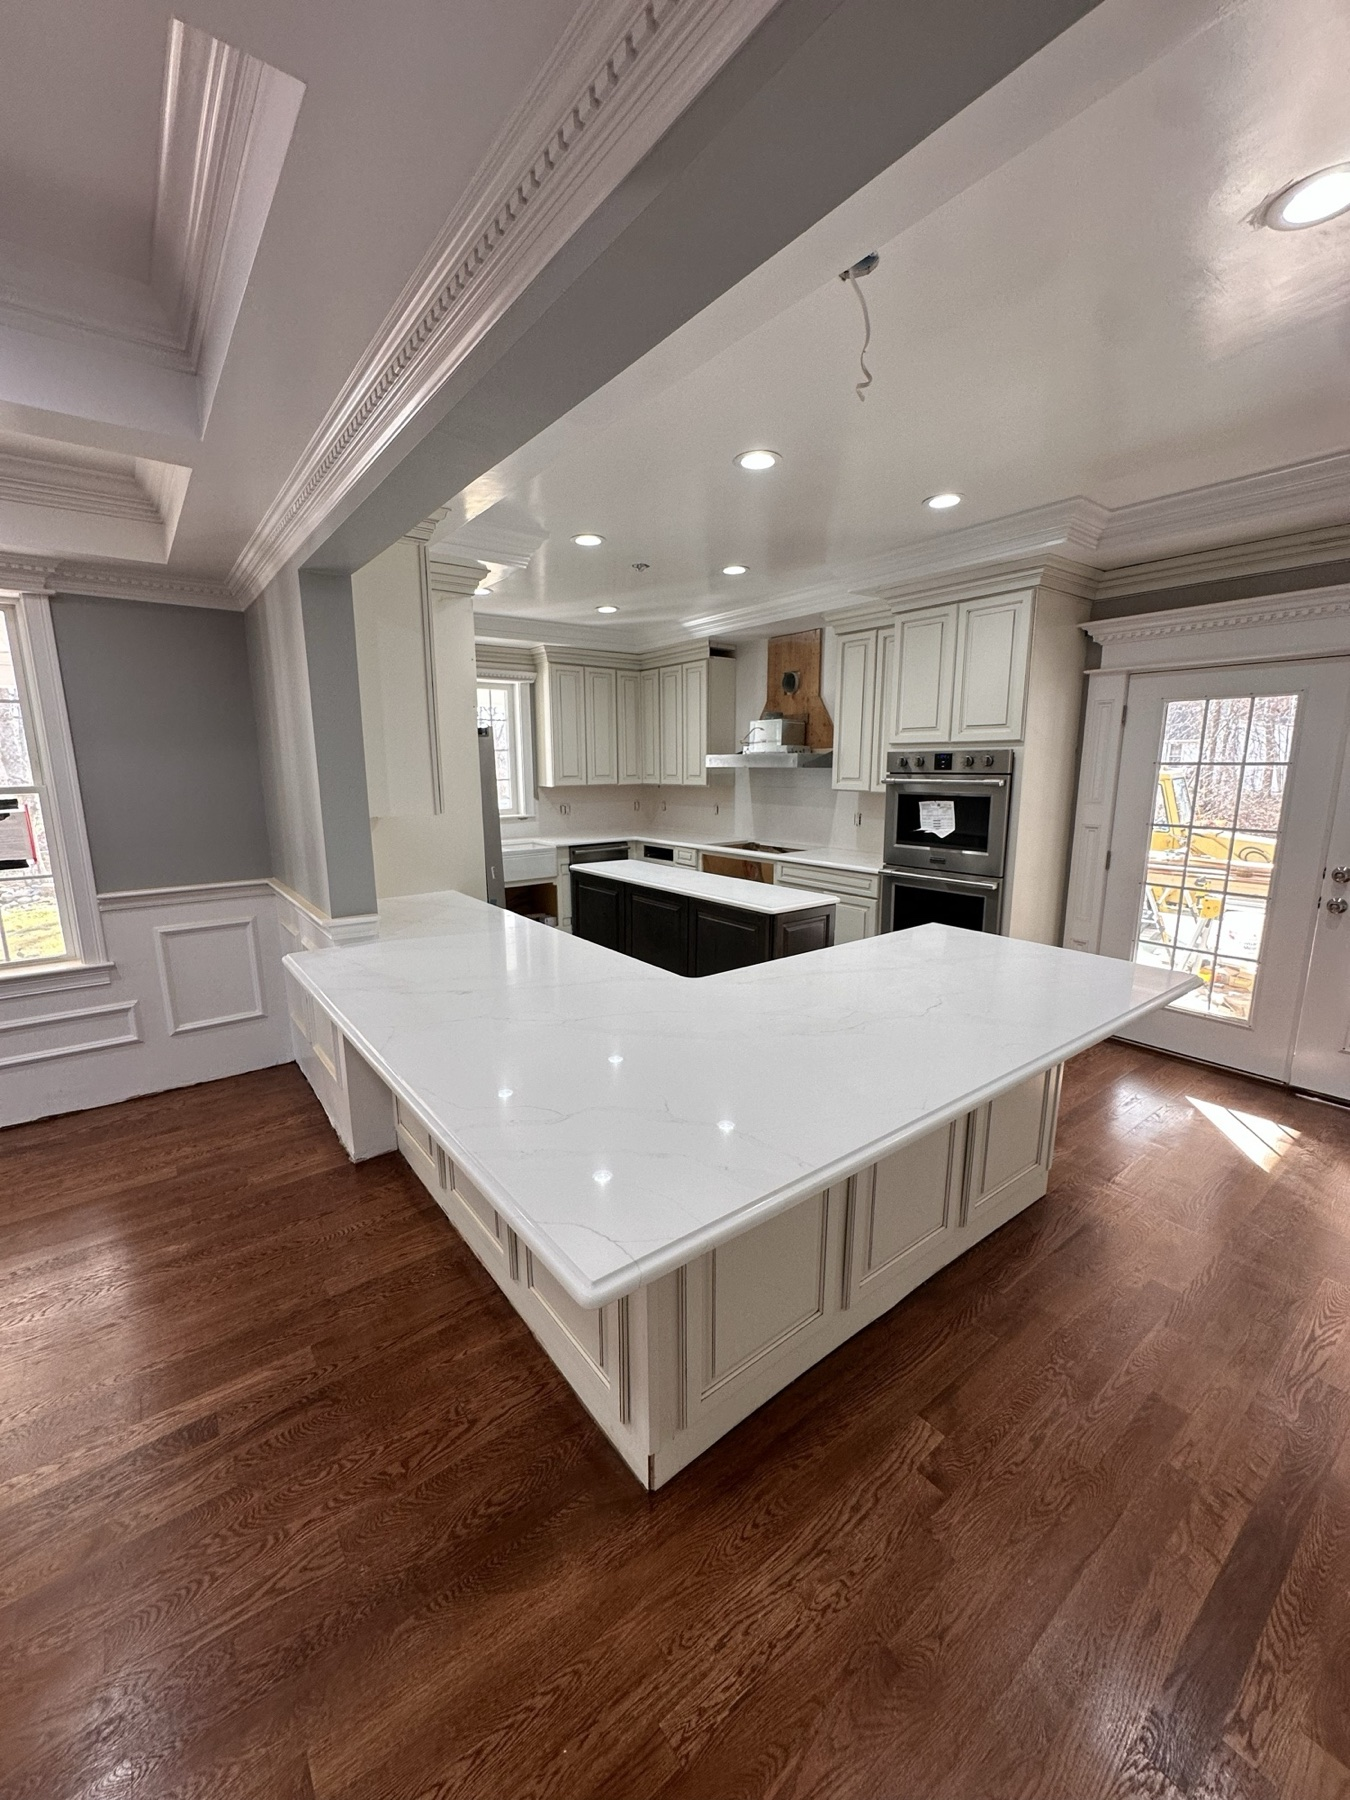
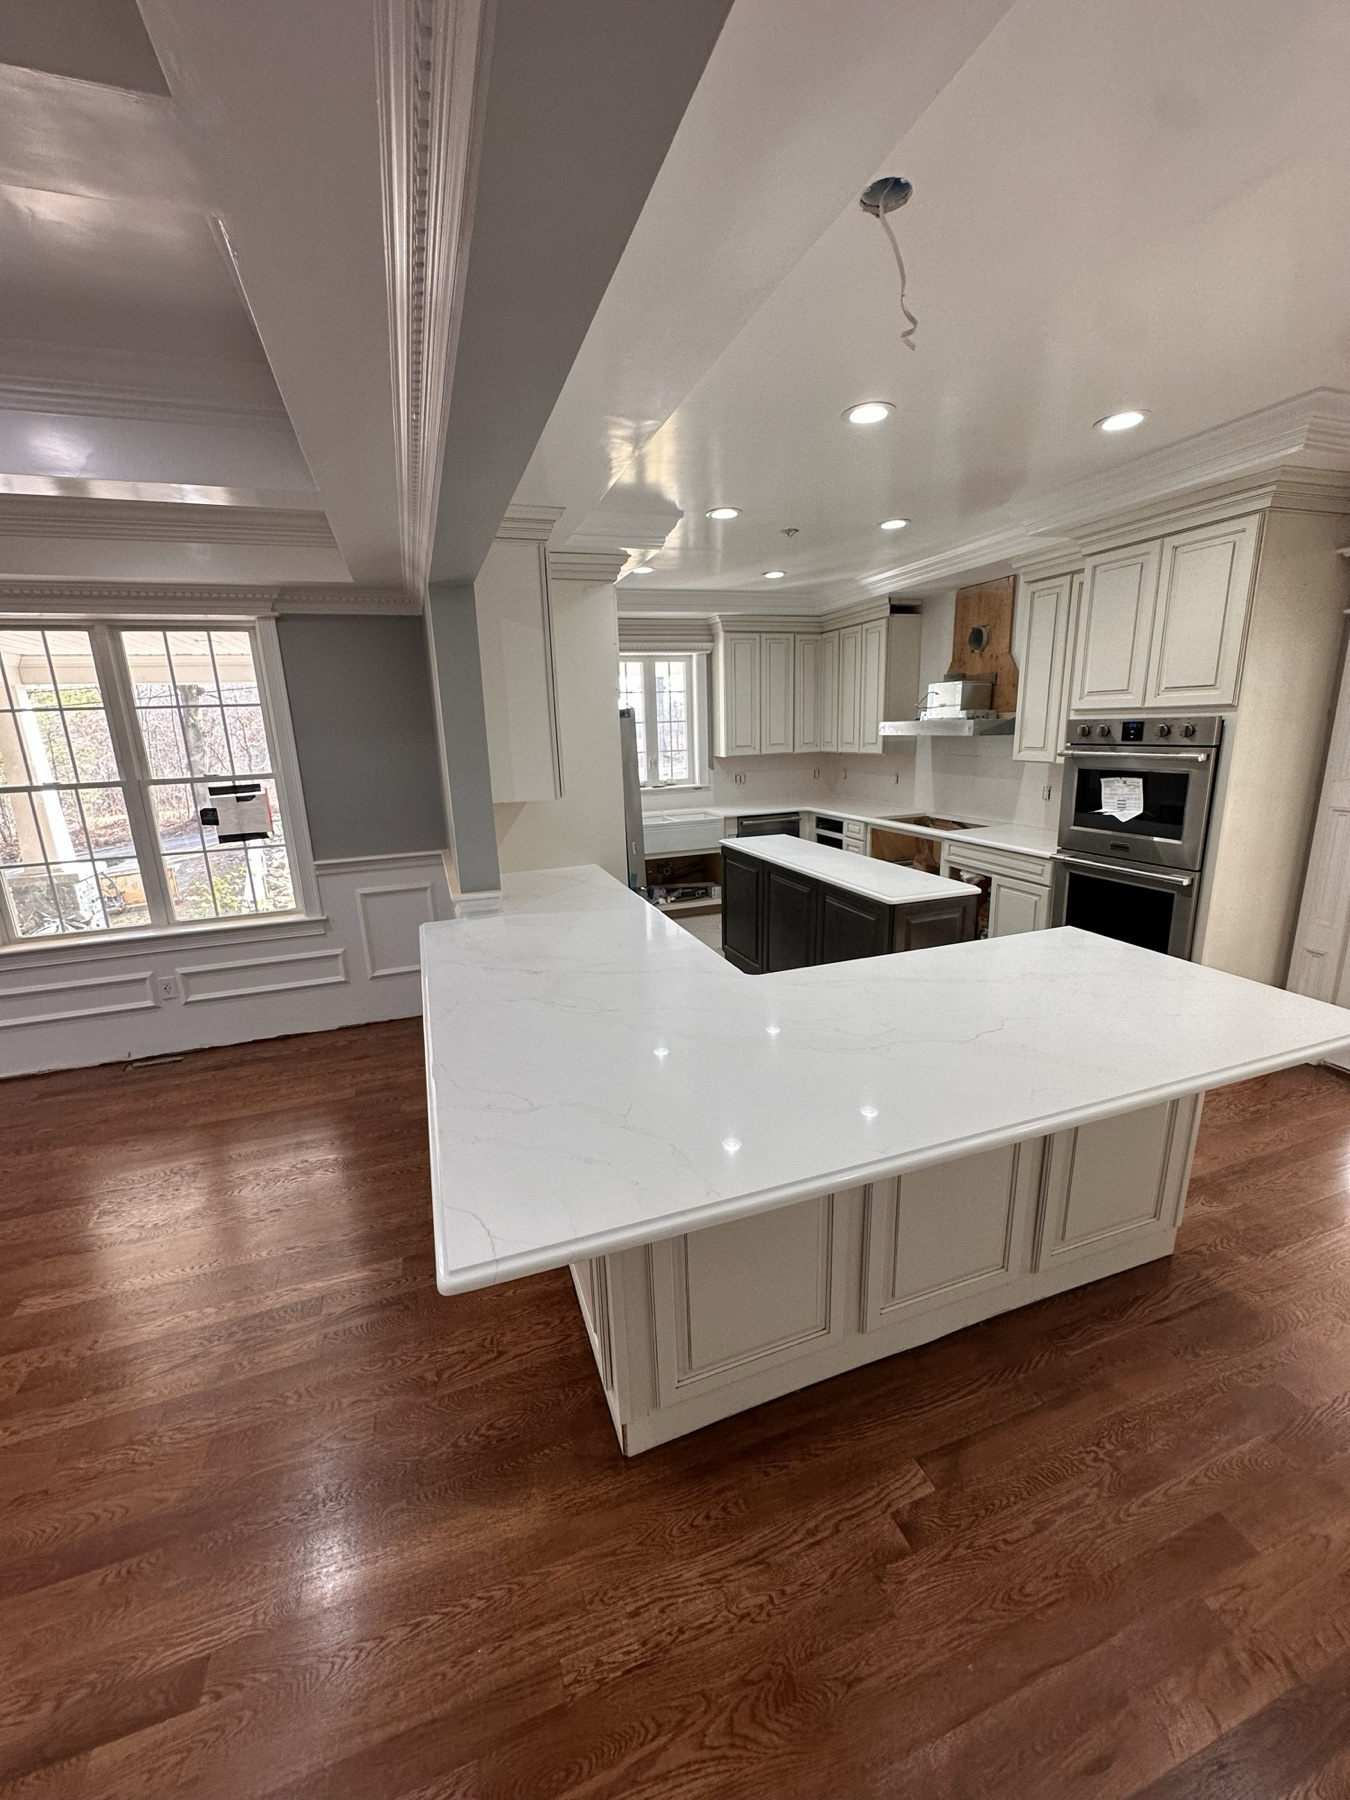
Apply remaining client-meeting changes: 45-degree stone differentiator, Flooring gallery, light hero by default
- Name the 45-degree mitered stone edge as the differentiator the client
  called 'an exclusivity few do well': hero accent card, featured-project
  list, service card tag and copy, gallery caption, JSON-LD knowsAbout.
- Build the Flooring gallery category the client asked for, using photos
  already on disk (IMG_3829, NHS_floor_frame, NHS_5598_floor) plus
  multi-category tiles ('kitchen flooring'); filter now splits on space.
- Light hero becomes the default (class on <html>, so it holds without JS);
  the dark variant stays at ?hero=dark and no longer downloads its photo.
- Cut the marble tub from 6 placements to 3: it leaves the hero, the
  Why-North-Home section and the duplicate gallery tile.
- Contact form is Formspree-ready via a single FORM_ENDPOINT constant,
  falling back to the honest mailto flow while it is empty.

diff --git a/site/index.html b/site/index.html
@@ -1,5 +1,5 @@
 <!DOCTYPE html>
-<html lang="en">
+<html lang="en" class="hero-light">
 <head>
   <meta charset="UTF-8">
   <meta name="viewport" content="width=device-width, initial-scale=1.0">
@@ -15,13 +15,12 @@
   <meta property="og:locale" content="en_US">
   <meta name="twitter:card" content="summary_large_image">
   <!-- TODO before launch: make og:image absolute, add og:url + <link rel="canonical"> once the domain exists -->
-  <link rel="preload" as="image" href="assets/img/web/hero-desktop.jpg" media="(min-width: 700px)" fetchpriority="high">
-  <link rel="preload" as="image" href="assets/img/web/hero-mobile.jpg" media="(max-width: 699px)" fetchpriority="high">
+  <link rel="preload" as="image" href="assets/img/web/hero-kitchen.jpg" fetchpriority="high">
   <link rel="preconnect" href="https://fonts.googleapis.com">
   <link rel="preconnect" href="https://fonts.gstatic.com" crossorigin>
   <link href="https://fonts.googleapis.com/css2?family=Archivo:wght@400;500;600;700&family=Fraunces:ital,opsz,wght@0,9..144,400;0,9..144,500;1,9..144,400;1,9..144,500&display=swap" rel="stylesheet">
-  <link rel="stylesheet" href="css/styles.css?v=17">
-  <script>(function(){var d=document.documentElement;d.classList.add("js");try{var q=new URLSearchParams(location.search);if(q.get("hero")==="light")d.classList.add("hero-light");if(q.get("noanim"))d.classList.add("noanim");var s=q.get("scroll");if(s)addEventListener("load",function(){scrollTo(0,parseInt(s,10)||0)})}catch(e){}})()</script>
+  <link rel="stylesheet" href="css/styles.css?v=22">
+  <script>(function(){var d=document.documentElement;d.classList.add("js");var q;try{q=new URLSearchParams(location.search)}catch(e){}if(q&&q.get("hero")==="dark")d.classList.remove("hero-light");if(q){if(q.get("noanim"))d.classList.add("noanim");var s=q.get("scroll");if(s)addEventListener("load",function(){scrollTo(0,parseInt(s,10)||0)})}})()</script>
   <script type="application/ld+json">
   {
     "@context": "https://schema.org",
@@ -38,7 +37,7 @@
       "addressCountry": "US"
     },
     "areaServed": ["Destin FL", "Santa Rosa Beach FL", "Miramar Beach FL", "Panama City Beach FL", "Panama City FL", "Niceville FL", "Fort Walton Beach FL", "Freeport FL"],
-    "knowsAbout": ["Tile installation", "Custom showers", "Bathroom remodeling", "Countertops", "Backsplashes", "Kitchen remodeling", "LVP flooring", "Fireplace surrounds", "Outdoor kitchens", "Interior finishes", "General remodeling"],
+    "knowsAbout": ["Tile installation", "Custom showers", "Bathroom remodeling", "Countertops", "45-degree mitered stone edges", "Waterfall countertop edges", "Backsplashes", "Kitchen remodeling", "LVP flooring", "Hardwood flooring", "Fireplace surrounds", "Outdoor kitchens", "Interior finishes", "General remodeling"],
     "telephone": "+1-774-420-6728",
     "priceRange": "$$",
     "email": "contact@northhomesolutions.com",
@@ -99,7 +98,7 @@
       <div class="hero-media" aria-hidden="true">
         <picture>
           <source media="(max-width: 699px)" srcset="assets/img/web/hero-mobile.jpg" width="1080" height="1505">
-          <img src="assets/img/web/hero-desktop.jpg" alt="" width="1920" height="1080" fetchpriority="high" decoding="async">
+          <img src="assets/img/web/hero-desktop.jpg" alt="" width="1920" height="1080" loading="lazy" decoding="async">
         </picture>
       </div>
       <div class="wrap hero-inner">
@@ -130,8 +129,8 @@
         </ul>
         </div>
         <div class="hero-visual rv" style="--rv-delay:.25s" aria-hidden="true">
-          <div class="hv-main"><img src="assets/img/web/hero-mobile.jpg" alt="" width="1080" height="1505" loading="lazy" decoding="async"></div>
-          <div class="hv-accent"><img src="assets/img/web/svc-kitchen.jpg" alt="" width="1400" height="793" loading="lazy" decoding="async"></div>
+          <div class="hv-main"><img src="assets/img/web/hero-kitchen.jpg" alt="" width="900" height="1200" fetchpriority="high" decoding="async"></div>
+          <div class="hv-accent"><img src="assets/img/web/hero-detail.jpg" alt="" width="800" height="645" decoding="async"></div>
         </div>
       </div>
       <div class="scroll-hint" aria-hidden="true">Scroll</div>
@@ -160,7 +159,7 @@
               <span class="svc-num">01</span>
               <h3>Tile &amp; Stone Installation</h3>
               <p>Our specialty. Floors, walls, backsplashes and fireplaces — large-format porcelain and natural stone, set level, aligned and grouted clean.</p>
-              <div class="svc-tagrow"><span>Large-format</span><span>Backsplashes</span><span>Natural stone</span><span>Fireplaces</span></div>
+              <div class="svc-tagrow"><span>Large-format</span><span>45&deg; mitered edges</span><span>Natural stone</span><span>Fireplaces</span></div>
             </div>
           </article>
           <article class="svc svc-b rv" style="--rv-delay:.1s">
@@ -177,7 +176,7 @@
             <div class="svc-body">
               <span class="svc-num">03</span>
               <h3>Kitchen Countertops</h3>
-              <p>Quartz and quartzite countertops, full-height slab backsplashes and kitchen refreshes that bring the heart of the home up to coastal standards.</p>
+              <p>Quartz and quartzite countertops, full-height slab backsplashes and mitered waterfall edges that carry the veining straight over the corner.</p>
             </div>
           </article>
           <article class="svc svc-d rv" style="--rv-delay:.1s">
@@ -215,6 +214,7 @@
             <li class="rv"><span class="fl-num">i.</span><span><b>Precision layout</b> — patterns centered and planned before the first cut</span></li>
             <li class="rv"><span class="fl-num">ii.</span><span><b>Proper waterproofing</b> — built to last, not just to pass inspection</span></li>
             <li class="rv"><span class="fl-num">iii.</span><span><b>Clean finish work</b> — level lines, tight grout, no shortcuts</span></li>
+            <li class="rv"><span class="fl-num">iv.</span><span><b>45&deg; mitered stone edges</b> — the slab folded down the face at a true miter, veining running straight through the corner. It is slow, unforgiving work, and it is the detail we are known for.</span></li>
           </ul>
           <a class="btn btn-brass rv" href="#work">
             Browse the Portfolio
@@ -236,6 +236,7 @@
             <button type="button" class="active" data-filter="all" aria-pressed="true">All</button>
             <button type="button" data-filter="shower" aria-pressed="false">Showers &amp; Baths</button>
             <button type="button" data-filter="kitchen" aria-pressed="false">Kitchens</button>
+            <button type="button" data-filter="flooring" aria-pressed="false">Flooring</button>
             <button type="button" data-filter="outdoor" aria-pressed="false">Fireplaces &amp; Outdoor</button>
             <button type="button" data-filter="video" aria-pressed="false">Videos</button>
           </div>
@@ -245,10 +246,6 @@
           <figure class="tile rv" data-cat="shower">
             <img src="assets/img/web/gal-01.jpg" data-full="assets/img/web/gal-01-full.jpg" alt="Book-matched marble tub surround with brass filler" width="900" height="843" loading="lazy">
             <figcaption>Book-matched marble tub surround with brass filler</figcaption>
-          </figure>
-          <figure class="tile rv" data-cat="shower">
-            <img src="assets/img/web/gal-02.jpg" data-full="assets/img/web/gal-02-full.jpg" alt="Mitered stone slab tub deck — detail" width="540" height="900" loading="lazy">
-            <figcaption>Mitered stone slab tub deck — detail</figcaption>
           </figure>
           <figure class="tile rv" data-cat="shower">
             <img src="assets/img/web/gal-03.jpg" data-full="assets/img/web/gal-03-full.jpg" alt="Large-format calacatta walk-in shower" width="675" height="900" loading="lazy">
@@ -290,7 +287,7 @@
             <img src="assets/img/web/gal-12.jpg" data-full="assets/img/web/gal-12-full.jpg" alt="Quartzite slab backsplash, sage-green cabinetry" width="900" height="506" loading="lazy">
             <figcaption>Quartzite slab backsplash, sage-green cabinetry</figcaption>
           </figure>
-          <figure class="tile rv" data-cat="kitchen">
+          <figure class="tile rv" data-cat="kitchen flooring">
             <img src="assets/img/web/gal-13.jpg" data-full="assets/img/web/gal-13-full.jpg" alt="Quartz island &amp; new countertops" width="900" height="675" loading="lazy">
             <figcaption>Quartz island &amp; new countertops</figcaption>
           </figure>
@@ -310,9 +307,17 @@
             <img src="assets/img/web/gal-17.jpg" data-full="assets/img/web/gal-17-full.jpg" alt="New quartz wrap on an L-shaped kitchen" width="900" height="506" loading="lazy">
             <figcaption>New quartz wrap on an L-shaped kitchen</figcaption>
           </figure>
-          <figure class="tile rv" data-cat="kitchen">
-            <img src="assets/img/web/gal-24.jpg" data-full="assets/img/web/gal-24-full.jpg" alt="Traditional white kitchen — quartz island &amp; red-oak floors" width="675" height="900" loading="lazy">
-            <figcaption>Traditional white kitchen — quartz island &amp; red-oak floors</figcaption>
+          <figure class="tile rv" data-cat="kitchen flooring">
+            <img src="assets/img/web/gal-24.jpg" data-full="assets/img/web/gal-24-full.jpg" alt="White kitchen over refinished red-oak floors" width="675" height="900" loading="lazy">
+            <figcaption>White kitchen over refinished red-oak floors</figcaption>
+          </figure>
+          <figure class="tile rv" data-cat="flooring">
+            <img src="assets/img/web/gal-25.jpg" data-full="assets/img/web/gal-25-full.jpg" alt="45° mitered stone apron meeting large-format porcelain floor" width="900" height="507" loading="lazy">
+            <figcaption>45° mitered stone apron meeting large-format porcelain floor</figcaption>
+          </figure>
+          <figure class="tile rv" data-cat="flooring">
+            <img src="assets/img/web/gal-26.jpg" data-full="assets/img/web/gal-26-full.jpg" alt="Travertine-look porcelain tile floor" width="900" height="512" loading="lazy">
+            <figcaption>Travertine-look porcelain tile floor</figcaption>
           </figure>
           <figure class="tile rv" data-cat="outdoor">
             <img src="assets/img/web/gal-18.jpg" data-full="assets/img/web/gal-18-full.jpg" alt="Linear fireplace clad in vein-cut tile" width="506" height="900" loading="lazy">
@@ -366,7 +371,7 @@
     <section class="section craft" id="about">
       <div class="wrap craft-grid">
         <div class="craft-media rv">
-          <div class="cm-main"><img src="assets/img/web/craft-main.jpg" alt="Marble tub surround with brass tub filler" loading="lazy" width="720" height="1200"></div>
+          <div class="cm-main"><img src="assets/img/web/craft-main.jpg" alt="Porcelain slab shower with bench" loading="lazy" width="720" height="1200"></div>
           <div class="cm-accent"><img src="assets/img/web/craft-accent.jpg" alt="Outdoor kitchen counters at golden hour" loading="lazy" width="506" height="900"></div>
         </div>
         <div class="craft-copy">
@@ -571,6 +576,6 @@
     <p class="lb-caption"></p>
   </div>
 
-  <script src="js/main.js?v=17"></script>
+  <script src="js/main.js?v=22"></script>
 </body>
 </html>

diff --git a/site/js/main.js b/site/js/main.js
@@ -77,7 +77,8 @@
       const f = btn.dataset.filter;
       let shown = 0;
       tiles.forEach(function (t) {
-        const show = f === "all" || t.dataset.cat === f;
+        /* a tile may belong to several categories: data-cat="kitchen flooring" */
+        const show = f === "all" || t.dataset.cat.split(" ").indexOf(f) !== -1;
         t.classList.toggle("hide", !show);
         if (show) shown++;
       });
@@ -211,9 +212,11 @@
   });
 
   /* ---------- Contact form ----------
-     TODO: wire to Formspree/Netlify Forms before launch. The mailto fallback
-     below opens the visitor's email client and says so honestly — it does NOT
-     claim the request was received. */
+     Paste the Formspree endpoint below (https://formspree.io/f/xxxxxxxx) and the
+     form posts for real. While it is empty the mailto fallback runs instead —
+     that fallback only opens the visitor's mail app and says so honestly, it
+     never claims the request was received. */
+  const FORM_ENDPOINT = "";
   const form = document.getElementById("quote-form");
   if (form) {
     form.addEventListener("submit", function (e) {
@@ -234,6 +237,32 @@
         if (!phone) form.querySelector("#f-phone").setAttribute("aria-invalid", "true");
         err.textContent = "Please fill in your name and phone number.";
         firstInvalid.focus();
+        return;
+      }
+      if (FORM_ENDPOINT) {
+        const btn = form.querySelector('[type="submit"]');
+        const label = btn.textContent;
+        btn.disabled = true;
+        btn.textContent = "Sending…";
+        fetch(FORM_ENDPOINT, {
+          method: "POST",
+          headers: { Accept: "application/json" },
+          body: data,
+        })
+          .then(function (r) {
+            if (!r.ok) throw new Error(r.status);
+            form.reset();
+            msg.textContent = "Thanks — we got your request and will be in touch shortly.";
+            msg.classList.add("show");
+          })
+          .catch(function () {
+            err.textContent =
+              "Something went wrong sending your request. Please call or text us at (774) 420-6728.";
+          })
+          .then(function () {
+            btn.disabled = false;
+            btn.textContent = label;
+          });
         return;
       }
       const lines = [

diff --git a/site/css/styles.css b/site/css/styles.css
@@ -1148,6 +1148,8 @@ html:not(.js) .tile-video .play-badge { display: none; }
   height: auto;
   max-height: min(64vh, 620px);
   object-fit: cover;
+  /* favour the lower half so the mosaic pan reads as a shower, not a slab wall */
+  object-position: center 62%;
   display: block;
 }
 .hero-light .hero-visual::before {
